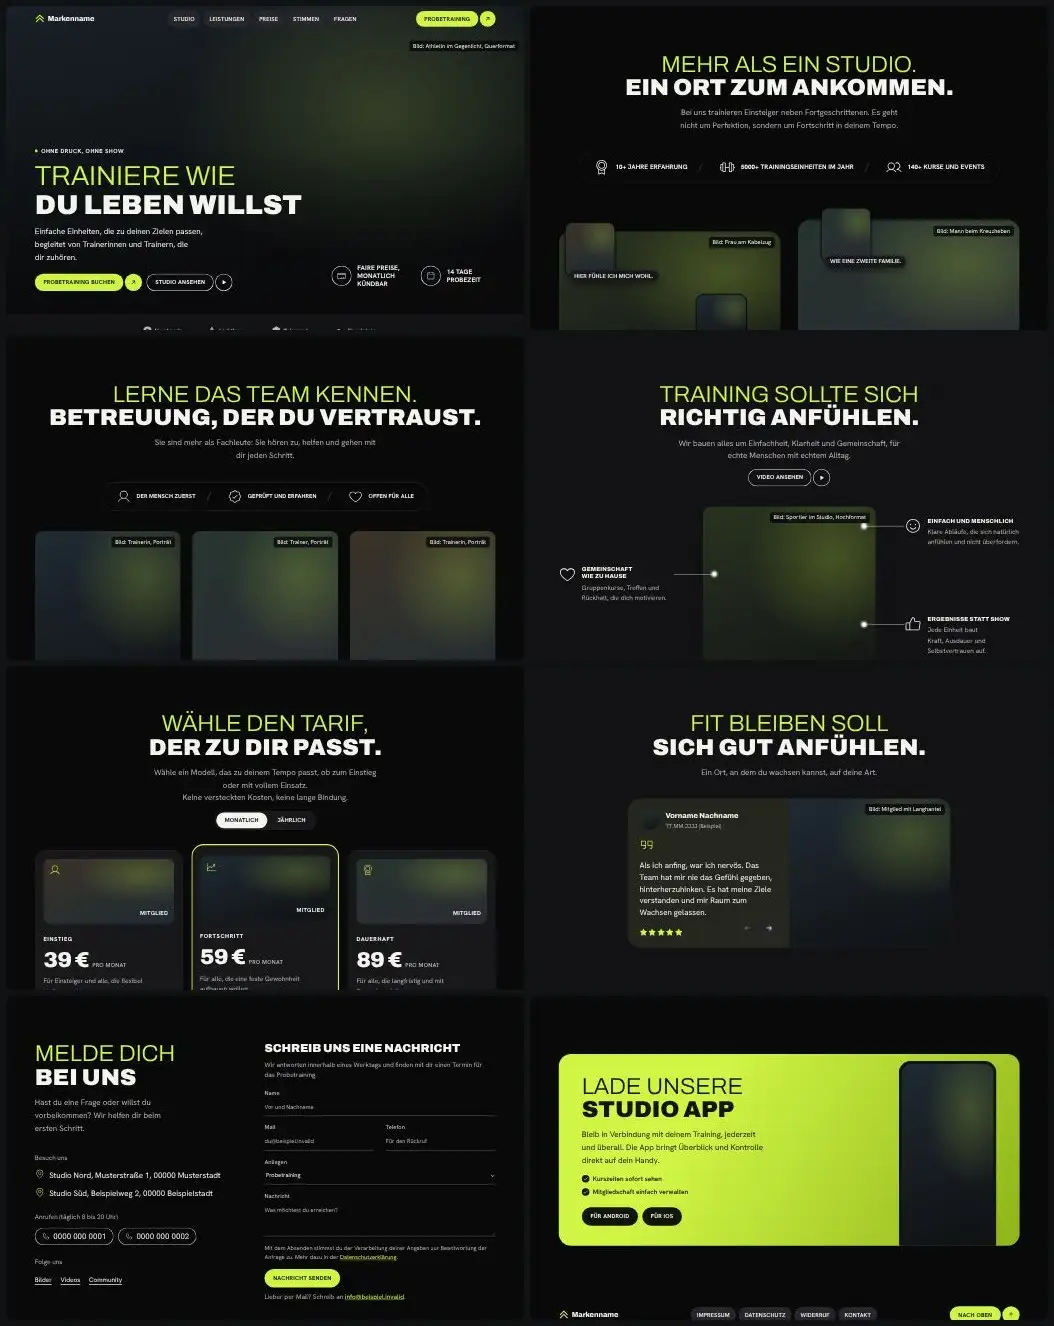
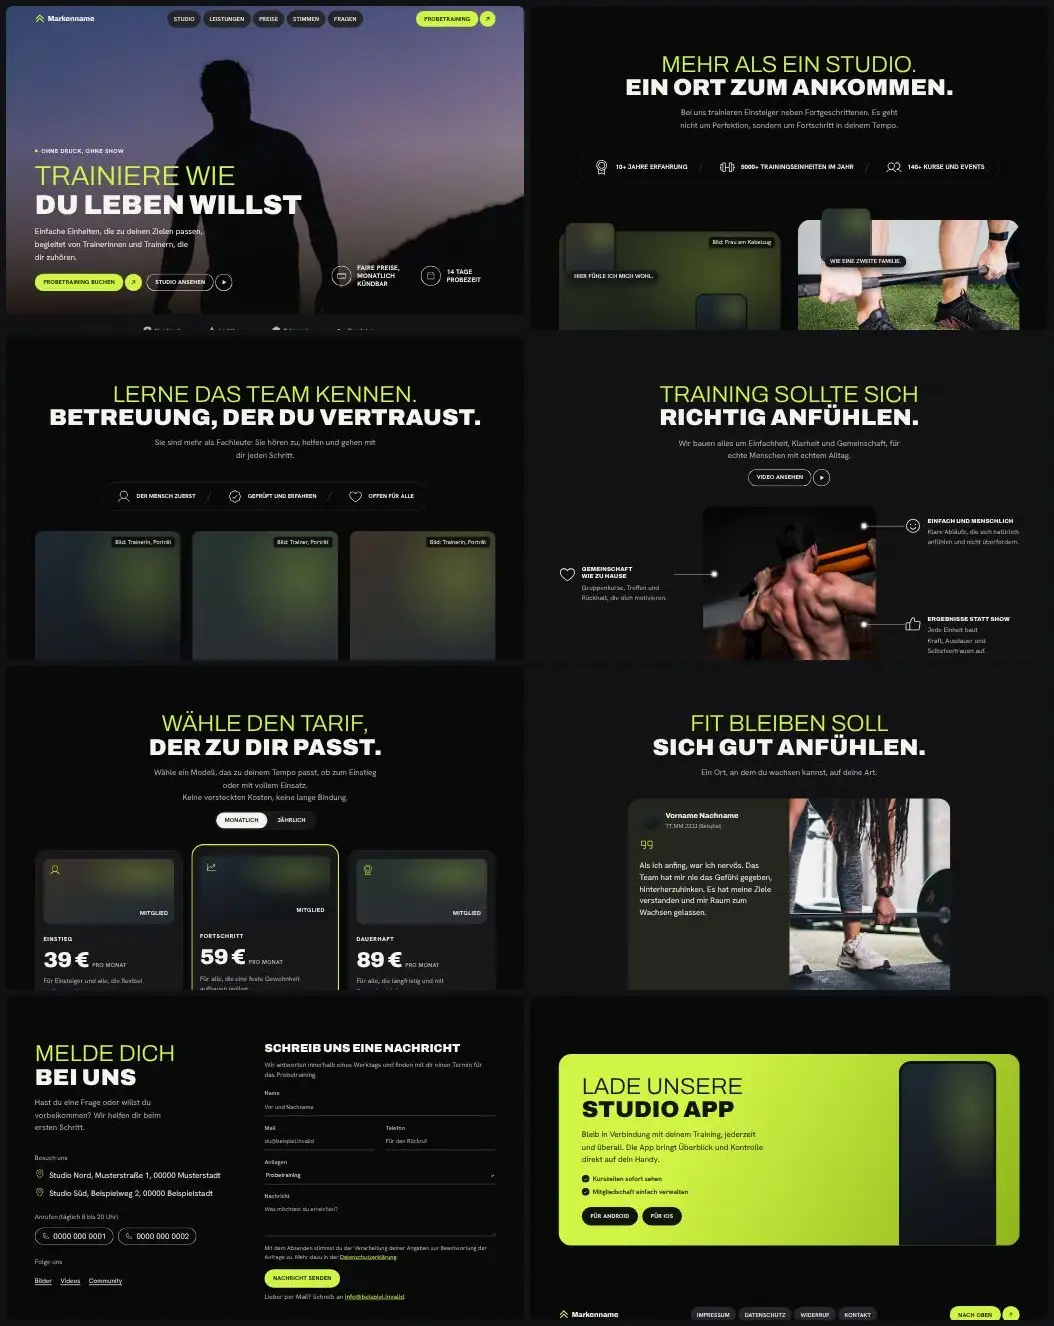
Bibliothek t58: Beispielfotos (Unsplash) eingebaut, Vorschaubilder neu erzeugt
Claude-Session: https://claude.ai/code/session_01DoGuL1bwF3ewggMgZ4Cpvd

diff --git a/skills/webdesign-conversion/assets/vorlagen/bibliothek/t58/index.html b/skills/webdesign-conversion/assets/vorlagen/bibliothek/t58/index.html
@@ -75,7 +75,7 @@
 <main id="inhalt">
   <!-- 1. Held: Vollbild, Text unten links, zwei Merkmale unten rechts -->
   <section class="held" id="top" aria-labelledby="h-held">
-    <div class="bild held__bild bild--a" data-platzhalter="Bild: Athletin im Gegenlicht, Querformat" role="img" aria-label="Platzhalter für ein Foto einer Sportlerin im Gegenlicht"></div>
+    <div class="bild held__bild bild--a"><img src="bilder/silhouette-abendhimmel.webp" width="1600" height="1067" alt="Silhouette einer Person vor violettem Abendhimmel" loading="lazy" decoding="async"></div>
     <div class="held__schleier" aria-hidden="true"></div>
     <div class="wrap held__innen">
       <div class="held__text" data-staffel>
@@ -121,7 +121,7 @@
       </ul>
       <div class="collage">
         <div class="collage__bild collage__bild--a bild bild--b" data-platzhalter="Bild: Frau am Kabelzug" data-zeig role="img" aria-label="Platzhalter für ein Foto vom Training am Kabelzug"></div>
-        <div class="collage__bild collage__bild--b bild bild--c" data-platzhalter="Bild: Mann beim Kreuzheben" data-zeig role="img" aria-label="Platzhalter für ein Foto vom Kreuzheben"></div>
+        <div class="collage__bild collage__bild--b bild bild--c" data-zeig><img src="bilder/langhantel-fuesse-kunstrasen.webp" width="800" height="533" alt="Hände halten eine Langhantel, Füße auf Kunstrasen" loading="lazy" decoding="async"></div>
         <ul class="chips" data-beispiel>
           <li class="chip chip--1" data-parallax="0.05"><figure><div class="bild bild--d chip__bild" data-platzhalter="Bild: Porträt" role="img" aria-label="Platzhalter für ein Porträtfoto"></div><figcaption>Hier fühle ich mich wohl.</figcaption></figure></li>
           <li class="chip chip--2" data-parallax="-0.06"><figure><div class="bild bild--a chip__bild" data-platzhalter="Bild: Porträt" role="img" aria-label="Platzhalter für ein Porträtfoto"></div><figcaption>Ruhig und trotzdem kraftvoll.</figcaption></figure></li>
@@ -182,7 +182,7 @@
         <a class="knopf knopf--kontur knopf--pfeil" href="#studio" data-zeig><span>Video ansehen</span><span class="knopf__kreis" aria-hidden="true"><svg width="14" height="14" focusable="false"><use href="#i-play"/></svg></span></a>
       </header>
       <div class="buehne" data-beispiel>
-        <div class="buehne__bild bild bild--b" data-platzhalter="Bild: Sportler im Studio, Hochformat" data-zeig role="img" aria-label="Platzhalter für ein Foto eines Sportlers im Studio"></div>
+        <div class="buehne__bild bild bild--b" data-zeig><img src="bilder/klimmzug-rueckenansicht.webp" width="1000" height="667" alt="Mann beim Klimmzug an der Stange, Rückenansicht" loading="lazy" decoding="async"></div>
         <ul class="hinweise" data-staffel>
           <li class="hinweis hinweis--l1" data-zeig><svg width="48" height="48" aria-hidden="true" focusable="false"><use href="#i-herz"/></svg><div><h3>Gemeinschaft wie zu Hause</h3><p>Gruppenkurse, Treffen und Rückhalt, die dich motivieren.</p></div></li>
           <li class="hinweis hinweis--l2" data-zeig><svg width="48" height="48" aria-hidden="true" focusable="false"><use href="#i-karte"/></svg><div><h3>Tarife für echte Leben</h3><p>Flexible Mitgliedschaft, klare Preise, kein Druck zu bleiben.</p></div></li>
@@ -269,7 +269,7 @@
                 <blockquote><p>Als ich anfing, war ich nervös. Das Team hat mir nie das Gefühl gegeben, hinterherzuhinken. Es hat meine Ziele verstanden und mir Raum zum Wachsen gelassen.</p></blockquote>
                 <p class="sterne" aria-label="Beispielwert: 5 von 5 Sternen"><svg width="22" height="22" aria-hidden="true" focusable="false"><use href="#i-stern"/></svg><svg width="22" height="22" aria-hidden="true" focusable="false"><use href="#i-stern"/></svg><svg width="22" height="22" aria-hidden="true" focusable="false"><use href="#i-stern"/></svg><svg width="22" height="22" aria-hidden="true" focusable="false"><use href="#i-stern"/></svg><svg width="22" height="22" aria-hidden="true" focusable="false"><use href="#i-stern"/></svg></p>
               </div>
-              <div class="bild bild--a stimme__bild" data-platzhalter="Bild: Mitglied mit Langhantel" role="img" aria-label="Platzhalter für ein Foto eines Mitglieds mit Langhantel"></div>
+              <div class="bild bild--a stimme__bild"><img src="bilder/kreuzheben-langhantel.webp" width="800" height="533" alt="Frau greift eine Langhantel zum Kreuzheben" loading="lazy" decoding="async"></div>
             </figure>
           </li>
           <li class="stimme">
@@ -280,7 +280,7 @@
                 <blockquote><p>Endlich ein Studio, in dem ich nicht auffalle. Der Plan passt zu meinen Schichten, und der Check am Monatsende zeigt mir, dass es wirkt.</p></blockquote>
                 <p class="sterne" aria-label="Beispielwert: 5 von 5 Sternen"><svg width="22" height="22" aria-hidden="true" focusable="false"><use href="#i-stern"/></svg><svg width="22" height="22" aria-hidden="true" focusable="false"><use href="#i-stern"/></svg><svg width="22" height="22" aria-hidden="true" focusable="false"><use href="#i-stern"/></svg><svg width="22" height="22" aria-hidden="true" focusable="false"><use href="#i-stern"/></svg><svg width="22" height="22" aria-hidden="true" focusable="false"><use href="#i-stern"/></svg></p>
               </div>
-              <div class="bild bild--c stimme__bild" data-platzhalter="Bild: Mitglied beim Seilspringen" role="img" aria-label="Platzhalter für ein Foto eines Mitglieds beim Seilspringen"></div>
+              <div class="bild bild--c stimme__bild"><img src="bilder/seilspringen-studio.webp" width="800" height="450" alt="Frau und Mann springen Seil in einem hellen Fitnessstudio" loading="lazy" decoding="async"></div>
             </figure>
           </li>
           <li class="stimme">
@@ -291,7 +291,7 @@
                 <blockquote><p>Mein Rücken dankt es mir. Die ruhigen Einheiten am Abend haben meinen Alltag verändert, und niemand hat mich je gedrängt.</p></blockquote>
                 <p class="sterne" aria-label="Beispielwert: 4 von 5 Sternen"><svg width="22" height="22" aria-hidden="true" focusable="false"><use href="#i-stern"/></svg><svg width="22" height="22" aria-hidden="true" focusable="false"><use href="#i-stern"/></svg><svg width="22" height="22" aria-hidden="true" focusable="false"><use href="#i-stern"/></svg><svg width="22" height="22" aria-hidden="true" focusable="false"><use href="#i-stern"/></svg><svg class="stern--leer" width="22" height="22" aria-hidden="true" focusable="false"><use href="#i-stern"/></svg></p>
               </div>
-              <div class="bild bild--d stimme__bild" data-platzhalter="Bild: Mitglied bei der Dehnung" role="img" aria-label="Platzhalter für ein Foto eines Mitglieds bei der Dehnung"></div>
+              <div class="bild bild--d stimme__bild"><img src="bilder/dehnung-auf-matte.webp" width="800" height="1199" alt="Frau dehnt sich auf einer Matte, Rückenansicht" loading="lazy" decoding="async"></div>
             </figure>
           </li>
         </ul>

diff --git a/skills/webdesign-conversion/assets/vorlagen/bibliothek/t58/BILDER.md b/skills/webdesign-conversion/assets/vorlagen/bibliothek/t58/BILDER.md
@@ -1,0 +1,24 @@
+# Bilder t58
+
+Alle Fotos von Unsplash, abgerufen am 25.11.2026. Titel und Lizenz stehen so auf der Seite des Fotos (Titel von Unsplash automatisch vergeben), als Fotograf ist das Unsplash Profil angegeben, weil die Seite den Namen nur als Profillink zeigte. Lizenz ist jeweils die Unsplash Lizenz.
+
+| Datei | Platz | Foto Titel | Fotograf (Profil) | Seite | Lizenz | Abruf |
+|---|---|---|---|---|---|---|
+| silhouette-abendhimmel.webp.webp | Hero, Athletin im Gegenlicht | eine Silhouette einer Person | briandamddo | https://unsplash.com/photos/cZq6uLmGOwc | Unsplash Lizenz | 25.11.2026 |
+| langhantel-fuesse-kunstrasen.webp.webp | Collage, Kreuzheben | Person, die eine schwarze Metallstange hält | syinq | https://unsplash.com/photos/HPP1mAit-vs | Unsplash Lizenz | 25.11.2026 |
+| klimmzug-rueckenansicht.webp.webp | Bühne, Sportler im Studio | Oben-ohne-Mann in schwarzen Shorts mit orangefarbener Stange | visualsbyroyalz | https://unsplash.com/photos/IZw5zLHMfd4 | Unsplash Lizenz | 25.11.2026 |
+| kreuzheben-langhantel.webp.webp | Stimme 1, Mitglied mit Langhantel | Eine Frau, die in einem Fitnessstudio eine Langhantel hebt | weareambitious | https://unsplash.com/photos/1PM_MY1zbF4 | Unsplash Lizenz | 25.11.2026 |
+| seilspringen-studio.webp.webp | Stimme 2, Seilspringen | Frau springt Seil, während Mann im Fitnessstudio | silverkblack | https://unsplash.com/photos/d5Q4aBfZclM | Unsplash Lizenz | 25.11.2026 |
+| dehnung-auf-matte.webp.webp | Stimme 3, Dehnung | Frau legt sich hin | anniespratt | https://unsplash.com/photos/Q6vClAWRqFY | Unsplash Lizenz | 25.11.2026 |
+
+## Hinweise
+
+* Der Hero zeigt eine Silhouette ohne erkennbares Gesicht; Geschlecht nicht erkennbar, die Vorlage nennt Athletin.
+* Die Stimmen zeigen Atmosphärenbilder, keine echten Mitglieder.
+* Collage Frau am Kabelzug: kein passendes Foto gefunden.
+
+## Offen
+
+* Collage Frau am Kabelzug
+* vier Chip Porträts, drei Trainer Porträts
+* App Bildschirm (Oberfläche)
